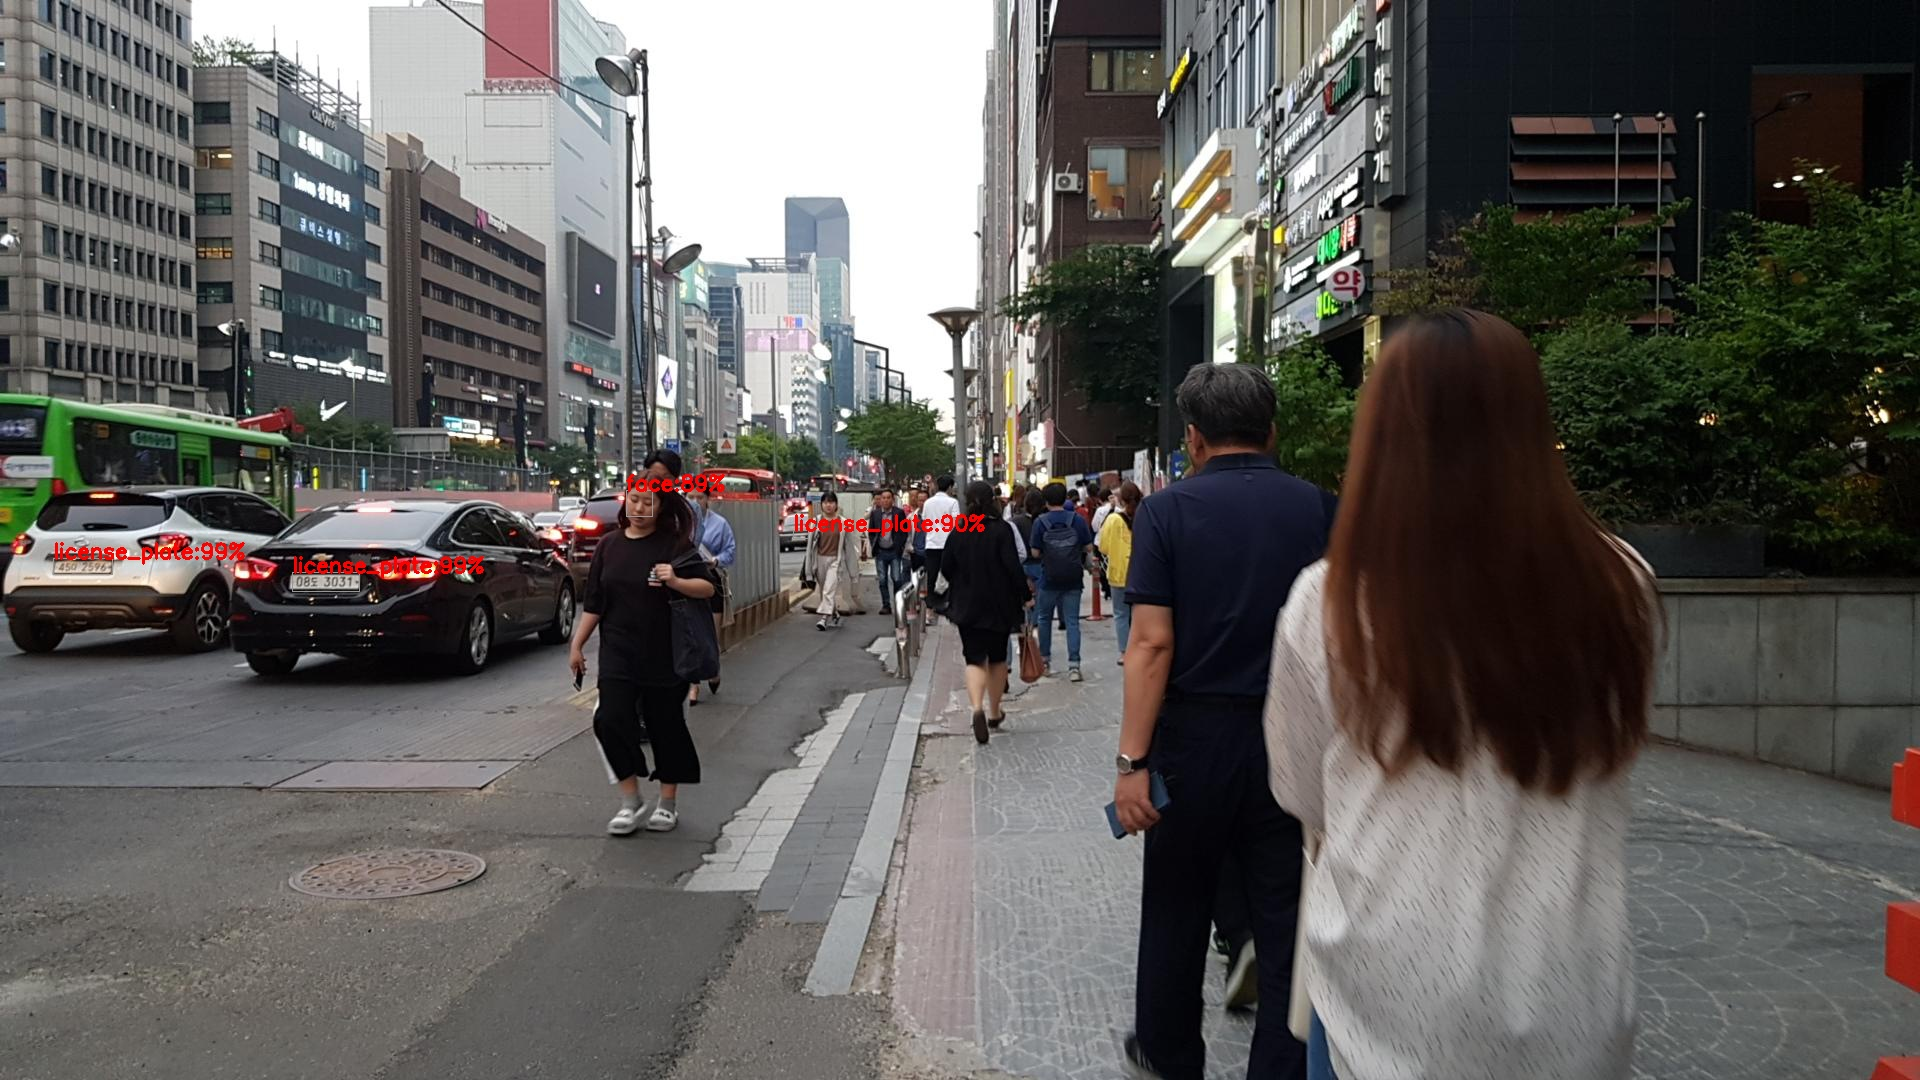
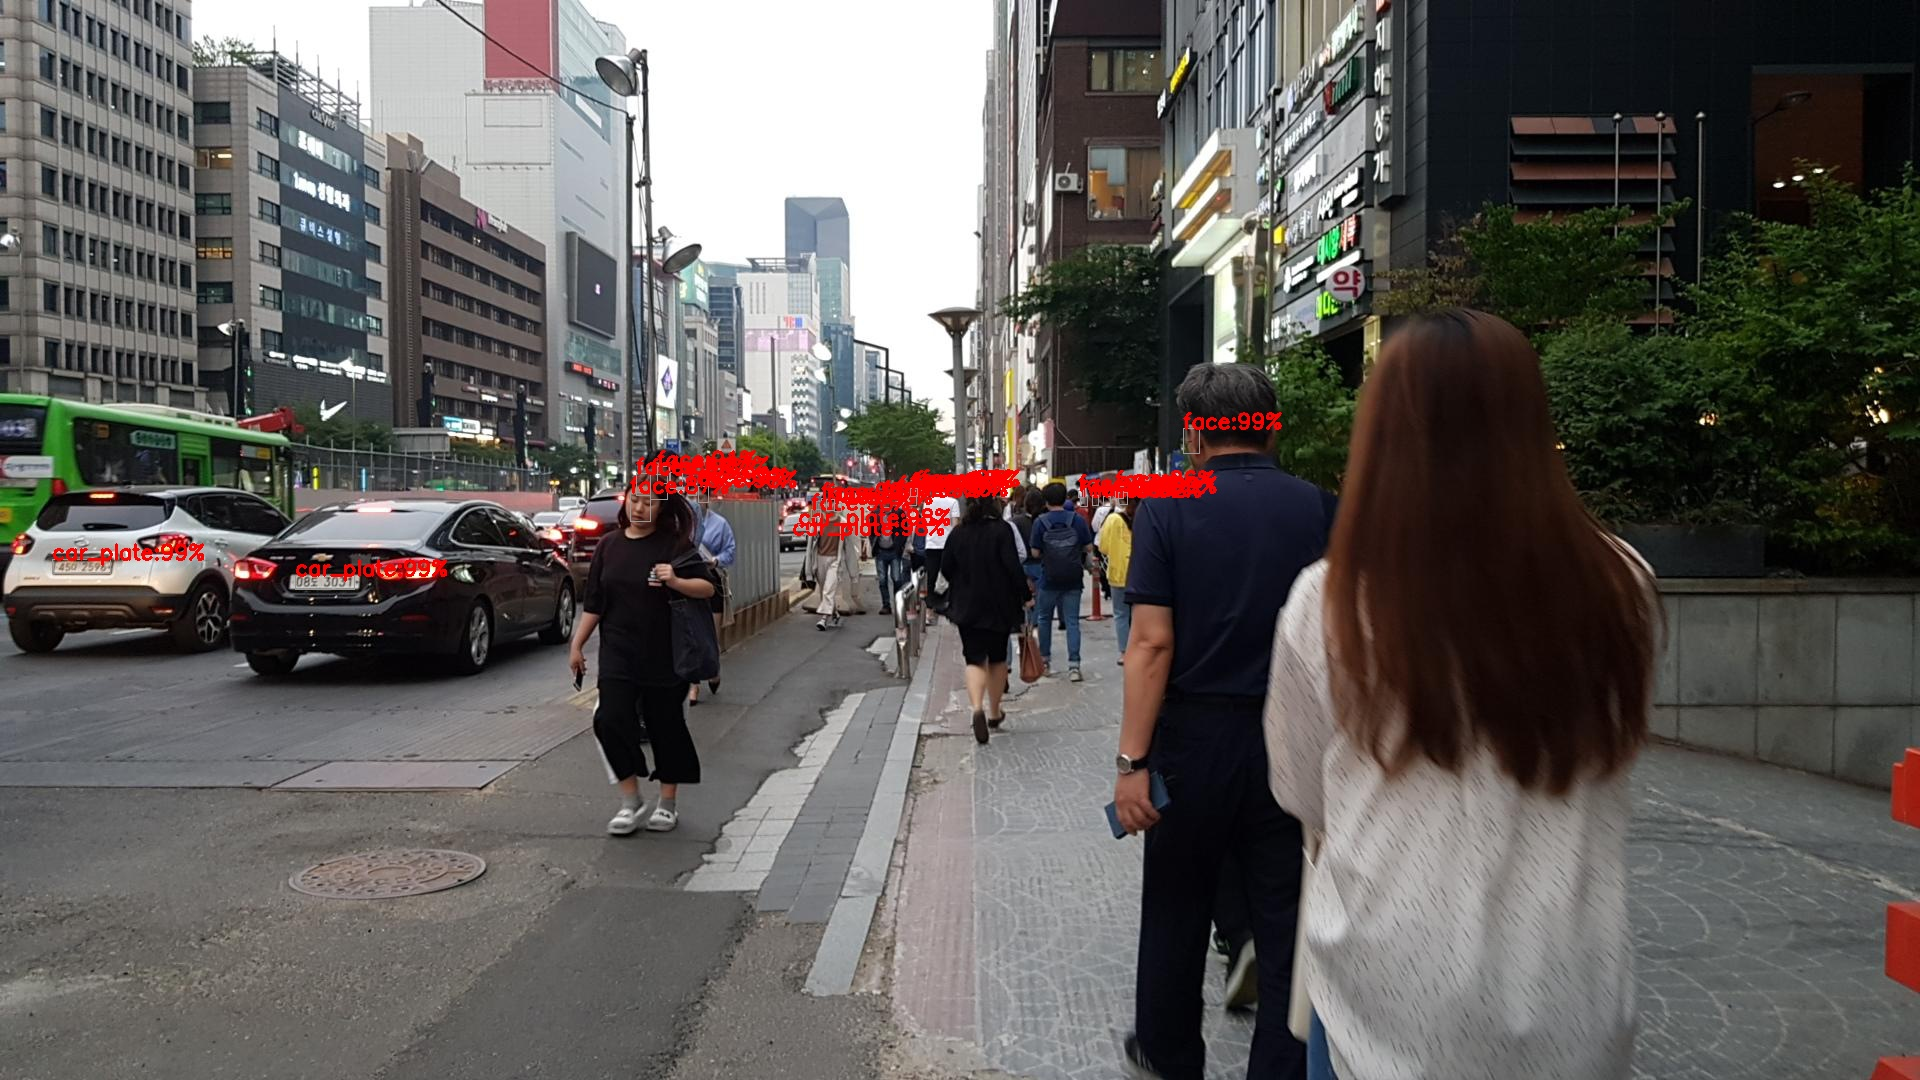
finished new map calculation code

diff --git a/main_.py b/main_.py
@@ -1,0 +1,156 @@
+from license_plate_api import LicensePlateDetector
+from license_plate_api.utils.parse_config import *
+from license_plate_api.utils.utils import *
+import cv2
+import os
+import os.path as osp
+import numpy as np
+from PIL import Image
+from settings import Settings
+import utils
+from lxml import etree as Element
+
+class BBoxClass:
+    def __init__(self, label, x1, y1, x2, y2, score):
+        self.label = label
+        self.x1 = x1
+        self.y1 = y1
+        self.x2 = x2
+        self.y2 = y2
+        self.score = score
+
+class ImageClass:
+    def __init__(self, id, name, width, height):
+        self.id = id
+        self.name = name
+        self.width = width
+        self.height = height
+        self.bbox_list = [] # type: [BBoxClass]
+
+
+if __name__ == '__main__':
+    settings = Settings()
+
+    if not osp.exists(settings.input_dir):
+        raise FileNotFoundError(f"{settings.input_dir} directory not exists.")
+    os.makedirs(settings.output_dir, exist_ok=True)
+
+    root = os.path.dirname(os.path.realpath(__file__))
+    data_config = parse_data_config(os.path.join(root, settings.config_path))
+    classes = load_classes(os.path.join(root, "license_plate_api", data_config["names"]))
+    if not osp.exists(settings.input_dir):
+        raise FileNotFoundError(f"{settings.input_dir} directory not exists.")
+    os.makedirs(settings.output_dir, exist_ok=True)
+
+    dataset = utils.get_dataset(settings.input_dir)
+
+    images = {}  # path: ImageClass
+
+    ### DETECTION ###
+    print('Start Detection...')
+
+    print('Creating networks and loading parameters')
+    license_plate_api = LicensePlateDetector(settings)
+    print('Preparing detector...')
+    license_plate_api.detect(np.zeros((1080, 1920, 3), dtype=np.uint8))
+
+    global_img_id = 0
+    for cls in dataset:
+        save_class_dir = osp.join(settings.output_dir, cls.name)
+        cls.image_paths = sorted(cls.image_paths)
+
+        for i, image_path in enumerate(cls.image_paths):
+            print('[{}/{}] {}'.format(i + 1, len(cls.image_paths), image_path))
+
+            img = np.array(Image.open(image_path).convert('RGB'))
+
+            img_height, img_width = img.shape[0:2]
+
+            # Register image info
+            img_info = ImageClass(global_img_id, image_path, img_width, img_height)
+
+            # get bbox result
+            bboxes, labels = license_plate_api.detect(img)  # (x1, y1, x2, y2, score)
+            bboxes = utils.make_bbox_small(bboxes, settings.license_plate_bbox_width_ratio, settings.license_plate_bbox_height_ratio)
+            bboxes = utils.filter_too_big(bboxes, settings.max_size_ratio, img_width, img_height)
+
+            for idx, bbox in enumerate(bboxes):
+                x1, y1, x2, y2, score = bbox
+                label = classes[int(labels[idx])]
+                bbox_info = BBoxClass(label, x1, y1, x2, y2, score)
+                img_info.bbox_list.append(bbox_info)
+            images[image_path] = img_info
+
+        global_img_id += 1
+
+
+    ### RENDERING RESULT ###
+    print(f"Rendering result... save_img={settings.save_img}")
+    if settings.save_img:
+        for cls in dataset:
+            save_class_dir = osp.join(settings.output_dir, cls.name)
+            cls.image_paths = sorted(cls.image_paths)
+
+            for i, image_path in enumerate(cls.image_paths):
+                print('[{}/{}] {}'.format(i + 1, len(cls.image_paths), image_path))
+
+                img_save_path = osp.join(save_class_dir, '{}_detected.jpg'.format(osp.splitext(osp.split(image_path)[-1])[0]))
+                img = np.array(Image.open(image_path).convert('RGB'))
+                img = cv2.cvtColor(img, cv2.COLOR_RGB2BGR)
+
+                for bbox in images[image_path].bbox_list:
+                    if isinstance(bbox, BBoxClass):
+                        label, x1, y1, x2, y2, score = str(bbox.label), int(bbox.x1), int(bbox.y1), int(bbox.x2), int(bbox.y2), float(bbox.score)
+                        red, green, blue, thickness = settings.bbox_red, settings.bbox_green, settings.bbox_blue, settings.bbox_thickness
+                        cv2.rectangle(img, (x1, y1), (x2, y2), (blue, green, red), thickness=thickness)
+                        if settings.show_score:
+                            cv2.putText(img, '{}:{}%'.format(label, int(score * 100)), (x1, y1),
+                                        cv2.FONT_HERSHEY_SIMPLEX, 0.7, color=(0, 0, 255), thickness=2)
+                        cv2.imwrite(img_save_path, img)
+                    else:
+                        raise TypeError("bbox object should be instance of BBoxClass")
+
+
+    ### GENERATE XML ###
+    print('Generating XML files...')
+    for cls in dataset:
+        save_class_dir = osp.join(settings.output_dir, cls.name)
+        cls.image_paths = sorted(cls.image_paths)
+
+        save_path = osp.join(save_class_dir, '{}.xml'.format(cls.name))
+        _annotation = Element.Element('annotations')
+
+        for i, image_path in enumerate(cls.image_paths):
+            print('[{}/{}] {}'.format(i + 1, len(cls.image_paths), image_path))
+
+            info = images[image_path]
+
+            imageXML = Element.Element('image')
+            imageXML.set('id', str(info.id))
+            imageXML.set('name', os.path.split(image_path)[-1])
+            imageXML.set('width', str(info.width))
+            imageXML.set('height', str(info.height))
+
+            for b in info.bbox_list:
+                if isinstance(b, BBoxClass):
+                    xmin = max(min(b.x1, b.x2), 0)
+                    ymin = max(min(b.y1, b.y2), 0)
+                    xmax = min(max(b.x1, b.x2), info.width)
+                    ymax = min(max(b.y1, b.y2), info.height)
+
+                    boxXML = Element.Element('box')
+                    boxXML.set('label', b.label)
+                    boxXML.set('xtl', str(xmin))
+                    boxXML.set('ytl', str(ymin))
+                    boxXML.set('xbr', str(xmax))
+                    boxXML.set('ybr', str(ymax))
+                    imageXML.append(boxXML)
+                else:
+                    raise TypeError("bbox object should be instance of BBoxClass")
+            _annotation.append(imageXML)
+
+        with open(save_path, 'w') as f:
+            print('Saving xml to {}'.format(save_path))
+            f.write((Element.tostring(_annotation, pretty_print=True)).decode('utf-8'))
+
+    print('Done.')

diff --git a/inference_.py b/inference_.py
@@ -1,0 +1,153 @@
+from license_plate_api import LicensePlateDetector
+from license_plate_api.utils.parse_config import *
+from license_plate_api.utils.utils import *
+import shutil
+import csv
+import os
+import os.path as osp
+import numpy as np
+from PIL import Image
+from settings import Settings
+import utils
+
+class BBoxClass:
+    def __init__(self, label, x1, y1, x2, y2, score):
+        self.label = label
+        self.x1 = x1
+        self.y1 = y1
+        self.x2 = x2
+        self.y2 = y2
+        self.score = score
+
+class ImageClass:
+    def __init__(self, id, name, width, height):
+        self.id = id
+        self.name = name
+        self.width = width
+        self.height = height
+        self.bbox_list = [] # type: [BBoxClass]
+
+
+class ImageData:
+    def __init__(self, name):
+        self.name = name
+        self.image_paths=[]
+
+def get_dataset(root, valid_text):
+    dataset = [ImageData('custom')]
+    with open(valid_text) as csv_file:
+        reader = csv.reader(csv_file, delimiter=",")
+        for row in reader:
+            image_dir = os.path.join(root,row[0].split("/")[-1])
+            dataset[0].image_paths.append(image_dir)
+
+    return dataset
+
+input_root = "../dataset/bbox/custom/images/"
+valid_text = "../dataset/bbox/custom/valid.txt"
+output_dir = "../dataset/bbox/custom/output/"
+label_dir = "../dataset/bbox/custom/labels/"
+initial_save_path = "../dataset/bbox/temp/"
+map_dir = "../map_api/input"
+
+if __name__ == '__main__':
+    settings = Settings()
+
+    ### CONFIG ###
+    dataset = get_dataset(input_root, valid_text)
+
+    if not osp.exists(settings.input_dir):
+        raise FileNotFoundError(f"{settings.input_dir} directory not exists.")
+    os.makedirs(settings.output_dir, exist_ok=True)
+
+    root = os.path.dirname(os.path.realpath(__file__))
+    data_config = parse_data_config(os.path.join(root, settings.config_path))
+    classes = load_classes(os.path.join(root, "license_plate_api", data_config["names"]))
+
+    images = {}  # path: ImageClass
+
+
+    ### DETECTION ###
+    print('Start Detection...')
+
+    print('Creating networks and loading parameters')
+    license_plate_api = LicensePlateDetector(settings)
+    print('Preparing detector...')
+    license_plate_api.detect(np.zeros((1080, 1920, 3), dtype=np.uint8))
+
+    global_img_id = 0
+    for cls in dataset:
+        save_class_dir = osp.join(settings.output_dir, cls.name)
+        cls.image_paths = sorted(cls.image_paths)
+
+        for i, image_path in enumerate(cls.image_paths):
+            print('[{}/{}] {}'.format(i + 1, len(cls.image_paths), image_path))
+
+            img = np.array(Image.open(image_path).convert('RGB'))
+
+            img_height, img_width = img.shape[0:2]
+
+            # Register image info
+            img_info = ImageClass(global_img_id, image_path, img_width, img_height)
+
+            # get bbox result
+            bboxes, labels = license_plate_api.detect(img)  # (x1, y1, x2, y2, score)
+            bboxes = utils.make_bbox_small(bboxes, settings.license_plate_bbox_width_ratio, settings.license_plate_bbox_height_ratio)
+            bboxes = utils.filter_too_big(bboxes, settings.max_size_ratio, img_width, img_height)
+
+            for idx, bbox in enumerate(bboxes):
+                x1, y1, x2, y2, score = bbox
+                x1 = x1/img_width
+                x2 = x2/img_width
+                y1 = y1/img_height
+                y2 = y2/img_height
+                #label = classes[int(labels[idx])]
+                label = int(labels[idx])
+                bbox_info = BBoxClass(label, x1, y1, x2, y2, score)
+                img_info.bbox_list.append(bbox_info)
+            images[image_path] = img_info
+
+        global_img_id += 1
+
+
+    ### GENERATE RESULT FILE ###
+    print("Start Writing Result File...")
+    if os.path.exists(initial_save_path):
+        shutil.rmtree(initial_save_path)
+    os.mkdir(initial_save_path)
+
+    img_len = len(images)
+    for idx, img_path in enumerate(images.keys()):
+        img_name = img_path.split('/')[-1]
+        result_save_path = os.path.join(initial_save_path, '{}.txt'.format(img_name))
+
+        print("[{}/{}] {}".format(idx+1, img_len, result_save_path))
+        with open(result_save_path, 'w') as file:
+            for bbox in images[image_path].bbox_list:
+                result_string = '{label} {score} {x1} {y1} {x2} {y2}\n'.format(
+                    label=bbox.label, score=bbox.score, x1=bbox.x1, y1=bbox.y1, x2=bbox.x2, y2=bbox.y2)
+                file.write(result_string)
+            file.close()
+
+
+    ### PREPARE MAP CALCULATION ###
+    # Clear map-api input folder
+    map_result_dir = os.path.join(map_dir, 'detection-results')
+    map_label_dir = os.path.join(map_dir, 'ground-truth')
+    if os.path.exists(map_result_dir):
+        shutil.rmtree(map_result_dir)
+    if os.path.exists(map_label_dir):
+        shutil.rmtree(map_label_dir)
+    os.mkdir(map_result_dir)
+    os.mkdir(map_label_dir)
+
+    # Copy to map-api input folder
+    for result_name in os.listdir(initial_save_path):
+        result_origin_path = os.path.join(initial_save_path, result_name)
+        result_dest_path = os.path.join(map_result_dir, result_name)
+
+        label_origin_path = os.path.join(label_dir, result_name)
+        label_dest_path = os.path.join(map_label_dir, result_name)
+
+        shutil.copyfile(result_origin_path, result_dest_path)
+        shutil.copyfile(label_origin_path, label_dest_path)

diff --git a/license_plate_api/license_plate_detection.py b/license_plate_api/license_plate_detection.py
@@ -2,22 +2,24 @@ import cv2
 import os
 import torch
 from .models import Darknet
+from .utils.parse_config import *
 from .utils.utils import load_classes, non_max_suppression, rescale_boxes
 from .utils.datasets import pad_to_square, resize
-from settings import Settings
 import torchvision.transforms as transforms
 from PIL import Image
 
-# TODO Make License Plate Detector -> Refer to detect.py in license_plate_api
 class LicensePlateDetector:
-    def __init__(self, settings: Settings):
+    def __init__(self, settings):
         # Model Config
         self.device = torch.device("cuda" if torch.cuda.is_available() else "cpu")
 
         root = os.path.dirname(os.path.realpath(__file__))
-        self.weight_path = os.path.join(root, 'model', 'yolov3_ckpt_98.pth')
+        self.weight_path = os.path.join(root, 'model','yolov3_ckpt_54.pth')
         self.model_cfg = os.path.join(root, 'model', 'yolov3-custom.cfg')
-        self.class_pth = os.path.join(root, 'model', 'classes.names')  # TODO add classes names file from cloud
+
+        config_path = os.path.join(root, 'model', 'custom.data')
+        self.data_config = parse_data_config(config_path)
+
         self.img_size = settings.license_plate_model_size
         self.conf_thres = settings.license_plate_threshold
         self.nms_thres = 0.4
@@ -33,7 +35,7 @@ class LicensePlateDetector:
         self.model.eval()
 
         # Load Classes Info
-        self.classes = load_classes(self.class_pth)
+        self.classes = load_classes(os.path.join(root, self.data_config["names"]))
 
     def preprocess(self, rgb_image):
         # Extract image as PyTorch tensor
@@ -68,11 +70,13 @@ class LicensePlateDetector:
         detections = rescale_boxes(detections, self.img_size, rgb_image.shape[:2])
         detections = detections.detach().cpu().numpy()
 
-        result = []
+        bbox_result = []
+        label_result = []
         for x1, y1, x2, y2, conf, cls_conf, cls_pred in detections:
-            result.append((x1, y1, x2, y2, conf))
+            bbox_result.append((x1, y1, x2, y2, conf))
+            label_result.append(cls_pred)
 
-        return result
+        return bbox_result, label_result
 
 
     # def detect(self, image, threshold=0.5):
@@ -102,3 +106,4 @@ class LicensePlateDetector:
     #
     #     return detections
     #
+

diff --git a/settings.py b/settings.py
@@ -17,3 +17,4 @@ class Settings:
     license_plate_model_size = 704  # 모델이 학습된 크기입니다. 이 값은 바꾸지 마세요.
     xml_face_name = 'face'  # XML 파일에서 얼굴 태그의 라벨 이름을 지정합니다.
     xml_license_plate_name = 'license_plate'  # XML 파일에서 번호판 태그의 라벨 이름을 지정합니다.
+    config_path = 'license_plate_api/model/custom.data'
